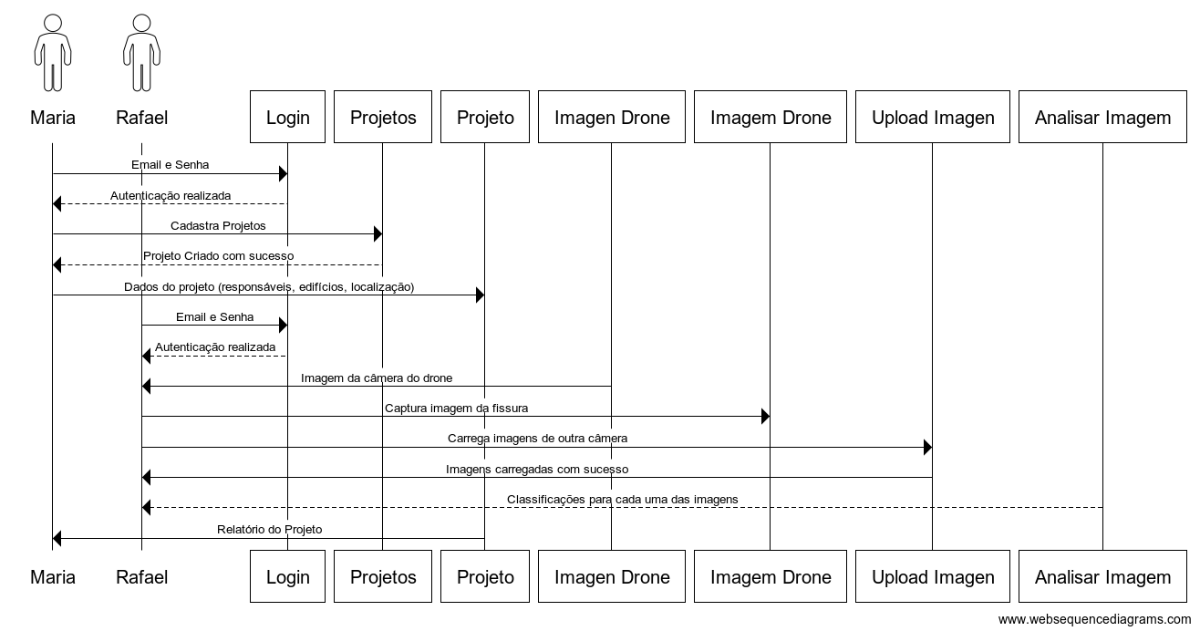
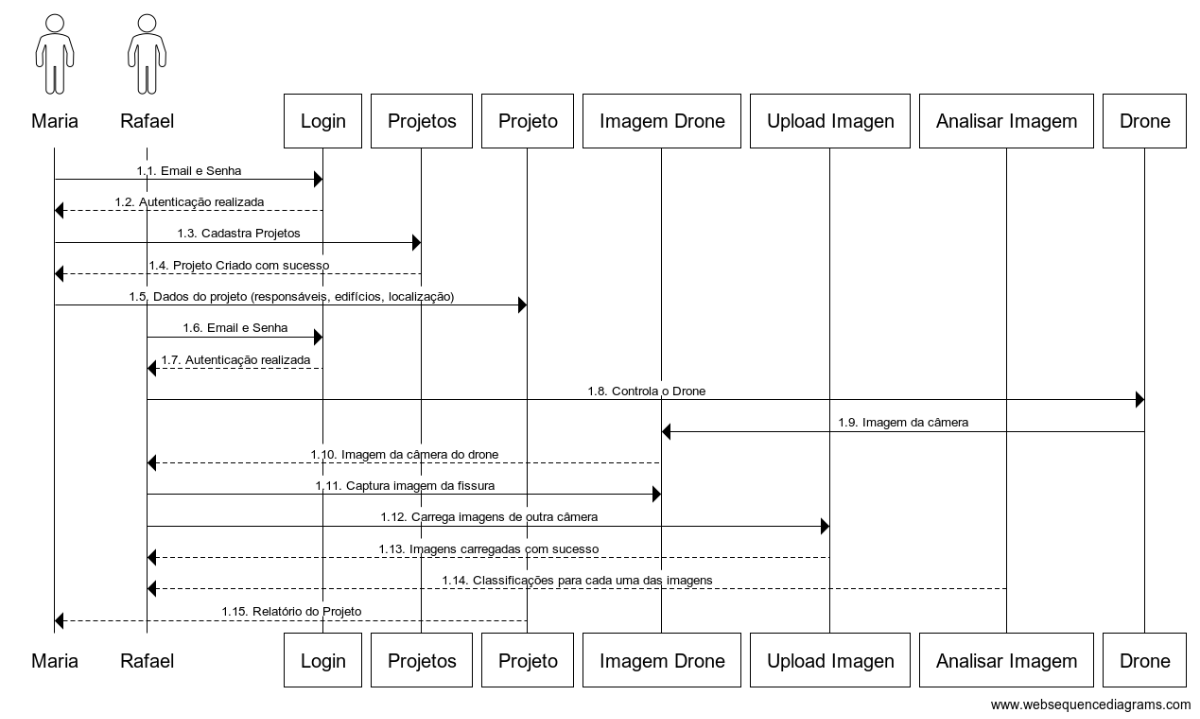
docs: corrige diagrama de sequência e detalha documentação

diff --git a/docs/docs/sprint_1/ux/arquitetura_informacao/diagramas_de_sequencia.md b/docs/docs/sprint_1/ux/arquitetura_informacao/diagramas_de_sequencia.md
@@ -18,6 +18,34 @@ sidebar_position: 2
 
 &nbsp;&nbsp;&nbsp;&nbsp;Por outro lado, o fluxo de Rafael é focado na importação de imagens: ele utiliza a funcionalidade de Captura de Imagens por meio do drone e também realiza o Upload de Imagens de outras fontes. Assim, após o envio dessas imagens, o sistema realiza a análise delas, retornando as classificações das fissuras presentes nelas.
 
+&nbsp;&nbsp;&nbsp;&nbsp;Assim, para que esses fluxos aconteçam da forma adequada, os elementos necessários no diagrama são:
+
+- **Login**: Tela de autenticação do sistema, cuja responsabilidade é validar credenciais (e-mail e senha) e redirecionar os usuários para a tela com os projetos.
+- **Projetos**: Tela de listagem e cadastro de projetos, cujo objetivo é exibir projetos existentes e permitir a criação de novos.
+- **Projeto**: Tela de detalhes de um projeto específico, cuja função é armazenar informações como responsáveis, edifícios, localização e relatórios.
+- **Imagem Drone**: Interface para visualização e captura de imagens em tempo real via drone.
+- **Upload Imagem**: Tela para envio de imagens de outras fontes (ex.: câmeras de alta resolução).
+- **Analisar Imagem**: tela que possibilita o acesso ao funcionamento do modelo de classificação das imagens, retornando os resultados.
+- **Drone**: Equipamento físico para captura de imagens aéreas que transmite imagens em tempo real para a interface Imagem Drone.
+
+&nbsp;&nbsp;&nbsp;&nbsp;Nesse cenário, considerando as personas e os participantes descritos acima, as etapas presentes no fluxo são:
+
+   - **1.1**: Maria insere e-mail e senha na tela de **Login**.
+   - **1.2**: O sistema valida as credenciais e a redireciona para a tela **Projetos**.
+   - **1.3**: Maria cadastra um novo projeto na tela **Projetos**.
+   - **1.4**: O sistema confirma a criação e exibe o projeto na lista.
+   - **1.5**: Maria acessa a tela **Projeto** para adicionar detalhes (responsáveis, edifícios, localização).
+   - **1.6**: Rafael insere suas credenciais na tela **Login**.
+   - **1.7**: O sistema autentica e o redireciona para a tela **Imagem Drone**.
+   - **1.8**: Rafael controla o **Drone** para posicioná-lo onde há fissuras para capturar.
+   - **1.9**: O drone envia as imagens para a tela **Imagem Drone**.
+   - **1.10**: Rafael visualiza as imagens em tempo real.
+   - **1.11**: Rafael realiza a captura de uma imagem específica de uma fissura ao apertar um botão da tela **Imagem Drone**.
+   - **1.12**: Rafael envia imagens de outras câmeras na tela **Upload Imagem**.
+   - **1.13**: O sistema confirma o carregamento bem-sucedido.
+   - **1.14**: O modelo classifica as fissuras e retorna os resultados a Rafael na tela **Analisar Imagem**.
+   - **1.15**: A tela **Projeto** consolida os dados (incluindo classificações) e gera um relatório para Maria exportar.
+
 &nbsp;&nbsp;&nbsp;&nbsp;Portanto, à vista do apresentado, o diagrama de sequência detalha a interação de cada persona com o sistema, evidenciando tanto seus fluxos individuais quanto a interdependência de suas ações para a geração do relatório final. Dessa forma, essa representação visual facilita a compreensão do fluxo de informações dentro da aplicação e valida a cobertura das necessidades dos usuários identificados. Logo, as próximas etapas de desenvolvimento, como a criação dos wireframes, detalharão ainda mais a interface e a experiência do usuário, a fim de melhor expor como as informações serão apresentadas aos usuários.
 
 ## Referências 
